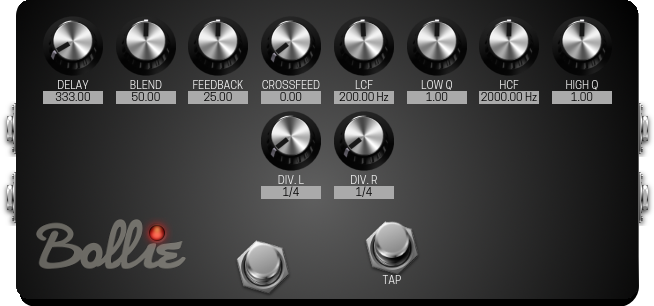
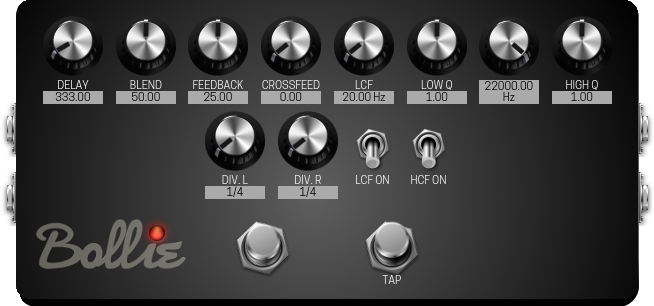
Filters now switchable.

diff --git a/modgui/bolliedelay.html b/modgui/bolliedelay.html
@@ -52,6 +52,14 @@
           <span class="mod-knob-title">Div. R</span>
           <div class="mod-knob-value" contenteditable="true" mod-role="input-control-value" mod-port-symbol="div_r"></div>
        </div>
+        <div class="mod-knob" title="Switch on/off low cut.">
+            <div class="mod-toggle off" mod-role="input-control-port" mod-port-symbol="low_on" mod-widget="switch"></div>
+	        <span class="mod-knob-title">LCF on</span>
+       </div>
+        <div class="mod-knob" title="Switch on/off high cut.">
+            <div class="mod-toggle off" mod-role="input-control-port" mod-port-symbol="high_on" mod-widget="switch"></div>
+	        <span class="mod-knob-title">HCF on</span>
+       </div>
     </div>
     
     <div class="mod-light on" mod-role="bypass-light"></div>

diff --git a/src/bollie-delay.c b/src/bollie-delay.c
@@ -16,16 +16,18 @@ typedef enum {
     BDL_MIX         = 2,
     BDL_DECAY       = 3,
     BDL_CROSSF      = 4,
-    BDL_LOW_F       = 5,
-    BDL_LOW_Q       = 6,
-    BDL_HIGH_F      = 7,
-    BDL_HIGH_Q      = 8,
-    BDL_DIV_L       = 9,
-    BDL_DIV_R       = 10,
-    BDL_INPUT_L     = 11,
-    BDL_INPUT_R     = 12,
-    BDL_OUTPUT_L    = 13,
-    BDL_OUTPUT_R    = 14
+    BDL_LOW_ON      = 5,
+    BDL_LOW_F       = 6,
+    BDL_LOW_Q       = 7,
+    BDL_HIGH_ON      = 8,
+    BDL_HIGH_F      = 9,
+    BDL_HIGH_Q      = 10,
+    BDL_DIV_L       = 11,
+    BDL_DIV_R       = 12,
+    BDL_INPUT_L     = 13,
+    BDL_INPUT_R     = 14,
+    BDL_OUTPUT_L    = 15,
+    BDL_OUTPUT_R    = 16
 } PortIdx;
 
 typedef struct {
@@ -42,8 +44,10 @@ typedef struct {
     const float* mix;
     const float* decay;
     const float* crossf;
+    const float* low_on;
     const float* low_f;
     const float* low_q;
+    const float* high_on;
     const float* high_f;
     const float* high_q;
     const float* div_l;
@@ -101,11 +105,17 @@ static void connect_port(LV2_Handle instance, uint32_t port, void *data) {
         case BDL_CROSSF:
             self->crossf = data;
             break;
+        case BDL_LOW_ON:
+            self->low_on = data;
+            break;
         case BDL_LOW_F:
             self->low_f = data;
             break;
         case BDL_LOW_Q:
             self->low_q = data;
+            break;
+        case BDL_HIGH_ON:
+            self->high_on = data;
             break;
         case BDL_HIGH_F:
             self->high_f = data;
@@ -167,6 +177,12 @@ static void lowcut(BollieDelay* self, unsigned int index, float* sample_l,
     float* sample_r) {
 
     FilterBuffer* fbuf = &self->fil_buf_low;    
+
+    // If switched off, leave the samples untouched and mark the buffer empty
+    if (*self->low_on == 0) {
+        fbuf->filled = false;
+        return;
+    }
 
     // Sample rate
     float Fs = self->rate;
@@ -237,6 +253,12 @@ static void highcut(BollieDelay* self, unsigned int index, float* sample_l,
     float* sample_r) {
 
     FilterBuffer* fbuf = &self->fil_buf_high;    
+
+    // If switched off, leave the samples untouched and mark the buffer empty
+    if (*self->high_on == 0) {
+        fbuf->filled = false;
+        return;
+    }
 
     // Sample rate
     float Fs = self->rate;
